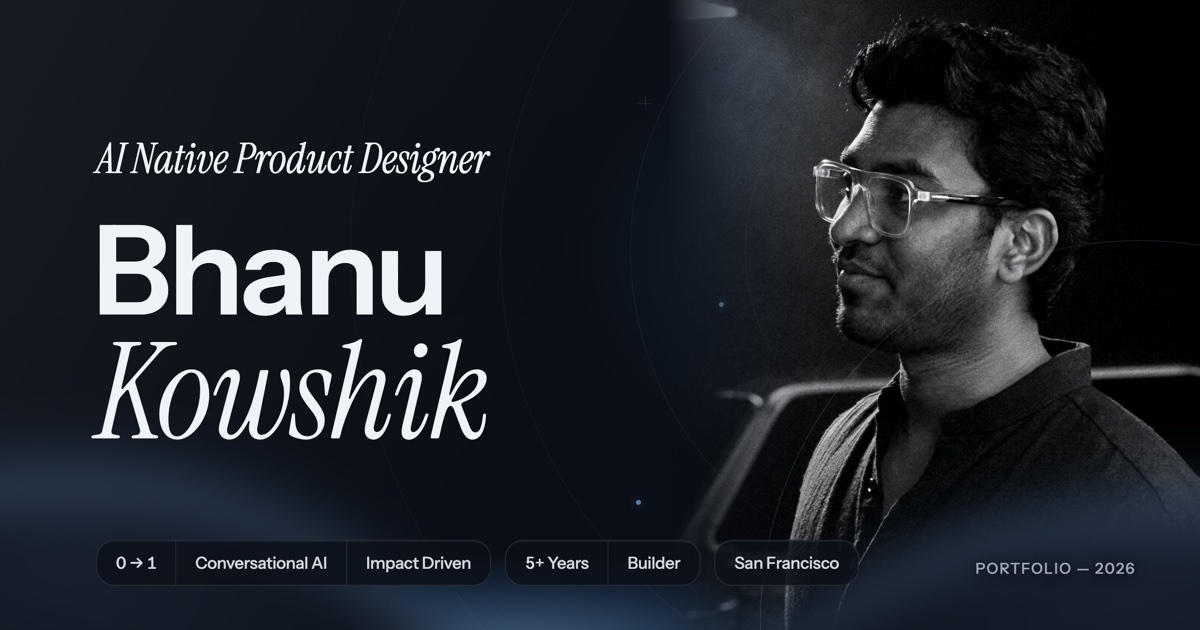
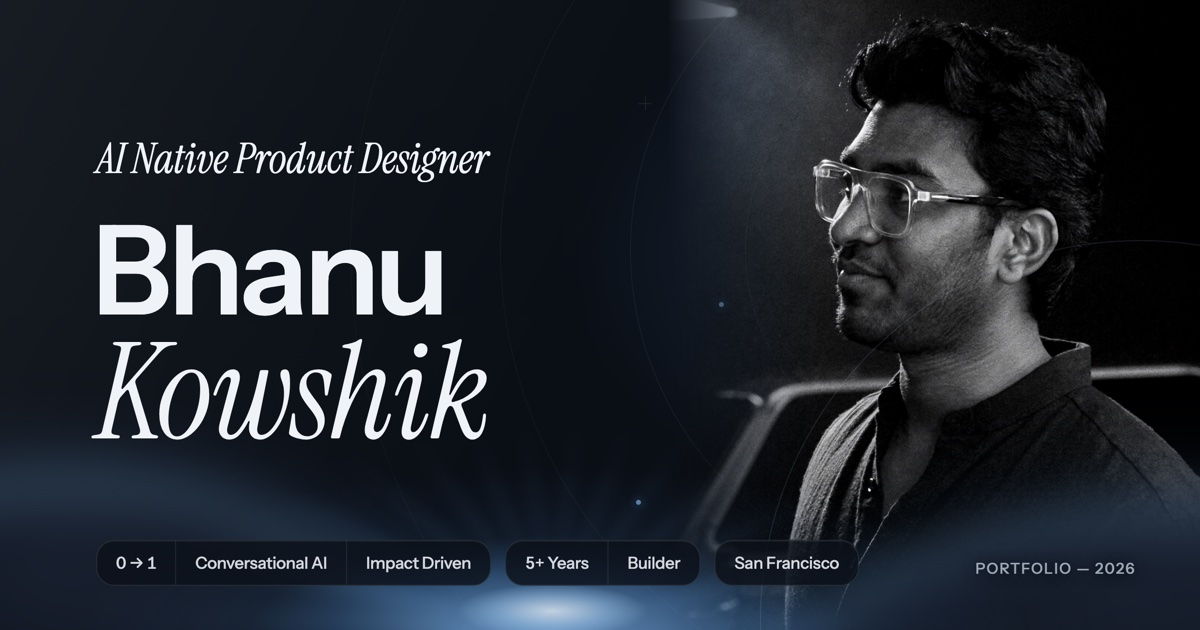
feat(share): og card v14 — the sunrise breaks over the horizon
The reference's soul, named by the user: light erupting from the shapes.
A white-hot azure core now crests between the bokeh orbs under the pill
row, a halo bleeds up the empty corridor, and faint conic rays fan through
the grain. The pills silhouette against the glow.

Changed region(s): [[0.2158, 0.8444, 0.7092, 1.0]]

diff --git a/og-image.html b/og-image.html
@@ -60,6 +60,22 @@
     .orb1 { width: 1000px; height: 1000px; left: -430px; top: 470px; }
     .orb2 { width: 1300px; height: 1300px; left: 520px; top: 498px; }
 
+    /* ── the sunrise — light erupting over the crests, the reference's soul ── */
+    .sunrise {
+      position: absolute; inset: 0; z-index: 3; pointer-events: none;
+      background:
+        radial-gradient(ellipse 11% 6% at 46% 97%, rgba(244,250,255,.68) 0%, rgba(180,220,255,.36) 42%, transparent 72%),
+        radial-gradient(ellipse 32% 19% at 46% 100%, rgba(150,202,255,.42) 0%, rgba(92,169,255,.15) 55%, transparent 78%),
+        radial-gradient(ellipse 56% 42% at 46% 104%, rgba(92,169,255,.18) 0%, transparent 72%);
+    }
+    .rays {
+      position: absolute; inset: 0; z-index: 3; pointer-events: none; opacity: .65;
+      background: repeating-conic-gradient(from -80deg at 46% 100%, rgba(150,202,255,.16) 0deg 5deg, transparent 5deg 14deg);
+      -webkit-mask-image: radial-gradient(ellipse 44% 48% at 46% 100%, #000 0%, transparent 72%);
+              mask-image: radial-gradient(ellipse 44% 48% at 46% 100%, #000 0%, transparent 72%);
+      filter: blur(7px);
+    }
+
     /* rings centered near the portrait's face */
     .ring {
       position: absolute; left: 960px; top: 250px; transform: translate(-50%, -50%);
@@ -173,6 +189,8 @@
   <div class="horizon"></div>
   <div class="orb orb1"></div>
   <div class="orb orb2"></div>
+  <div class="rays"></div>
+  <div class="sunrise"></div>
 
   <div class="n0">AI Native Product Designer</div>
   <div class="n1">Bhanu</div>
